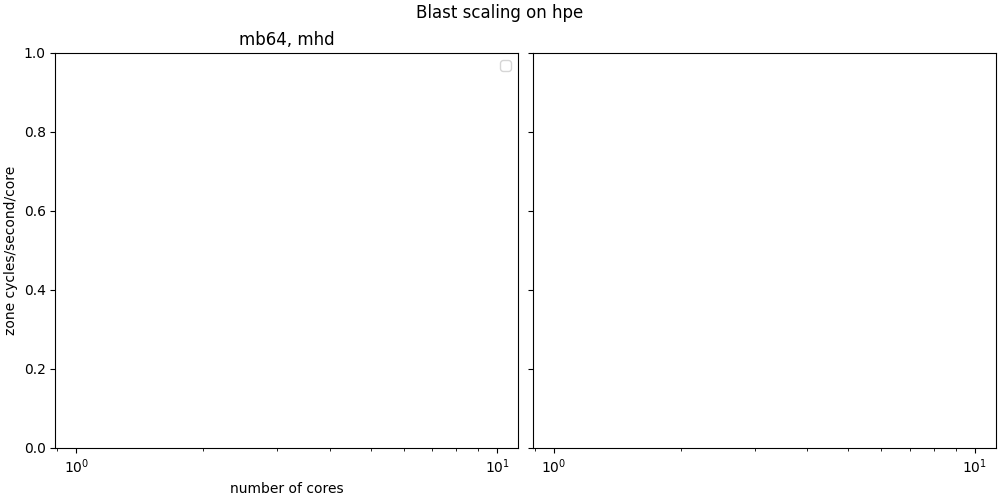
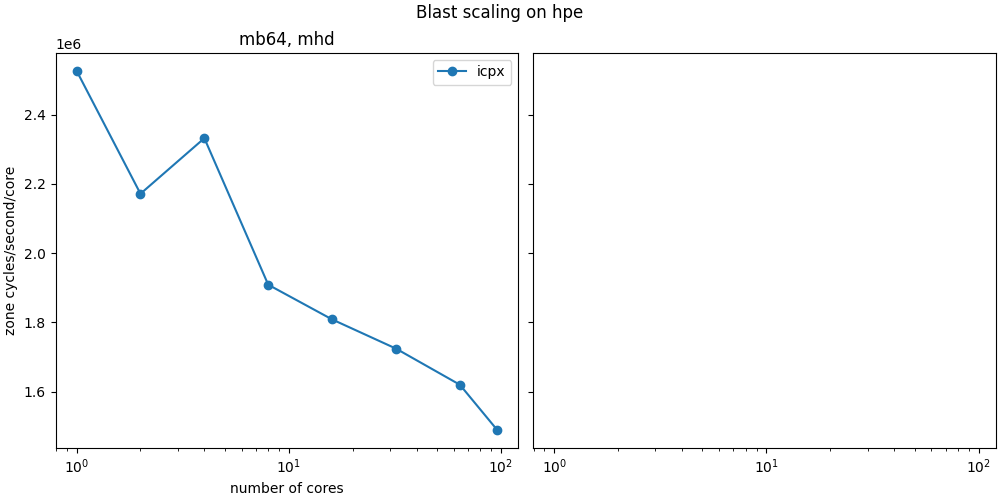
Update scaling figure

diff --git a/benchmark/hpe/scaling.py b/benchmark/hpe/scaling.py
@@ -1,0 +1,42 @@
+import numpy as np
+import matplotlib.pyplot as plt
+import os
+
+def get_zcs(mb="mb64",physics="mhd",CC="icpx",machine="hpe"):
+    n = np.array([1, 2, 4, 8, 16, 32, 64, 96])
+    scratch_dir = f"/home/users/e89961/benchmark/blast-scaling-{CC}"
+    zcs = []
+    ntask = []
+    for n_ in n:
+        fname = os.path.join(scratch_dir, f"{physics}-{mb}_n{n_}", "out.txt")
+        if os.path.exists(fname) == False:
+            continue
+        with open(fname, "r") as f:
+            lines = f.readlines()
+        zcs.append(eval(lines[-1].split("=")[-1].strip()))
+        ntask.append(n_)
+    zcs = np.array(zcs)
+    return ntask, zcs
+
+
+if __name__=="__main__":
+    fig,axes = plt.subplots(1,2,figsize=(10,5),
+                            sharey="row", sharex=True, constrained_layout=True)
+    machine="hpe"
+    mb="mb64"
+    for ax, physics in zip(axes,  ["mhd"]):
+        plt.sca(ax)
+        plt.title(f"{mb}, {physics}")
+        for CC in ["icpx"]:
+            n, zcs = get_zcs(mb=mb,CC=CC,physics=physics,machine=machine)
+            if len(zcs) == 0:
+                continue
+            plt.plot(n, zcs/n, 'o-', label=CC)
+ 
+        plt.xscale("log")
+ 
+        plt.ylabel("zone cycles/second/core")
+        plt.xlabel("number of cores")
+    plt.legend()
+    plt.suptitle(f"Blast scaling on {machine}")
+    plt.savefig(f"blast-scaling-{machine}.png")
